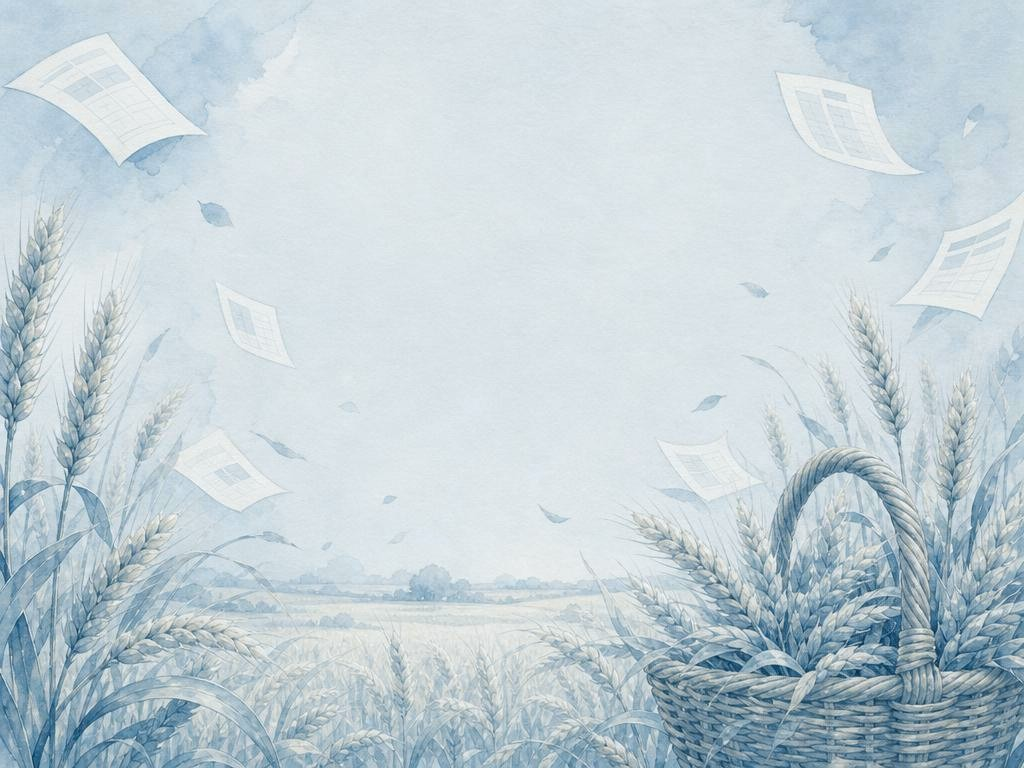
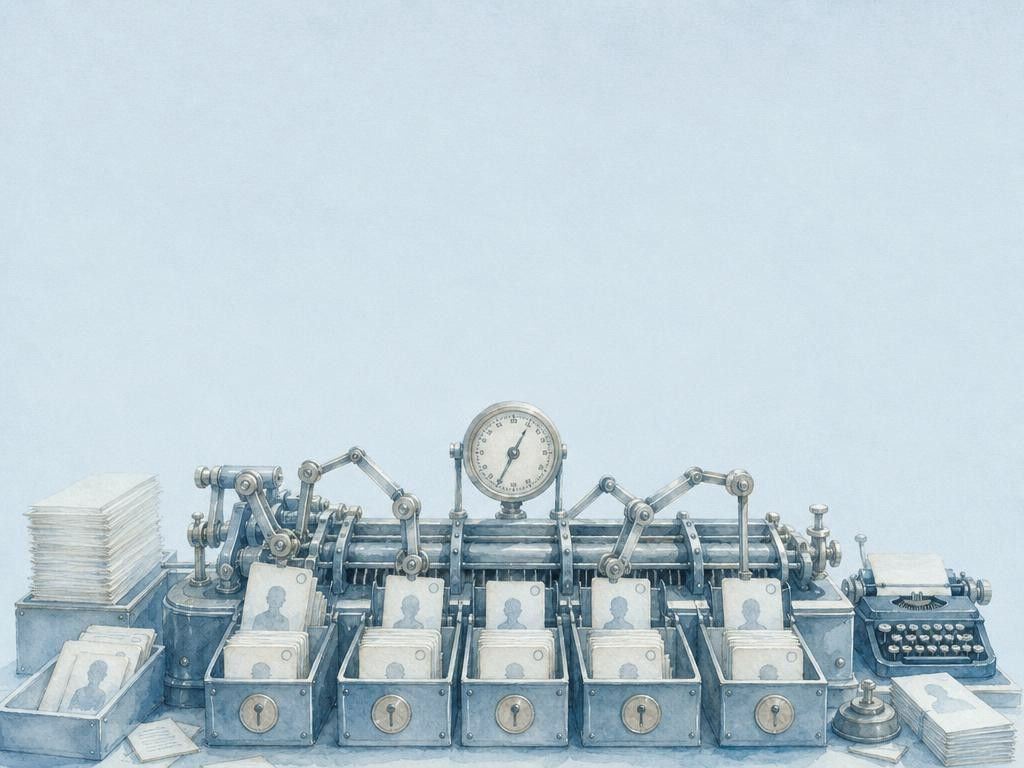
Fix case-studies/list.html safeHTML for subtitle + redo JobHarvest (card sorter) + Autocomplete (pneumatic tubes)

diff --git a/layouts/case-studies/list.html b/layouts/case-studies/list.html
@@ -19,7 +19,7 @@
                         <div class="project-stat-overlay">
                             <div class="project-stat-number">{{ .Params.stat }}</div>
                             {{ if .Params.statLabel }}<div class="project-stat-label">{{ .Params.statLabel }}</div>{{ end }}
-                            {{ if .Params.statSubtitle }}<div class="project-stat-subtitle">{{ .Params.statSubtitle }}</div>{{ end }}
+                            {{ if .Params.statSubtitle }}<div class="project-stat-subtitle">{{ .Params.statSubtitle | safeHTML }}</div>{{ end }}
                         </div>
                         {{ end }}
                     </div>